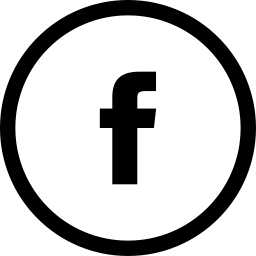
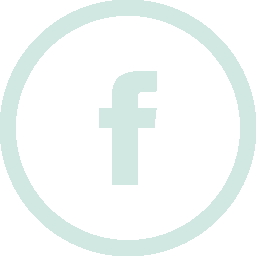
updated colors and hid feed when empty

Changed region(s): [[0.0, 0.0, 1.0, 1.0], [0.375, 0.25, 0.625, 0.75]]

diff --git a/public/index.html b/public/index.html
@@ -11,12 +11,12 @@
     <link rel="stylesheet" href="styles.css">
 </head>
 
-<body>
+<body id="page-top">
     <nav id="nav-bar">
         <div id="messageBox" class="demoMessage">
             <span>Loading ...</span> <button id="hideBtn">X</button>
         </div>
-        <img class="sustain-logo" src="images/sustain-logo.png" alt="Sustain logo">
+        <a href="#page-top"><img class="sustain-logo" src="images/sustain-logo.png" alt="Sustain logo"></a>
 
         <div class="navLinks" id="nav-links">
             <a class="link" id="js-activities">ADD CATEGORY</a>
@@ -130,6 +130,7 @@
         <!--Personal feed -->
         <section class="indivFeed">
             <h2 class="pageTitle">YOUR FEED</h2>
+            <p>Tell us about your experiences above to start earning points</p>
             <div class="currentFeed">
                 <img class="proofPicture" src="images/water-bottle.png" alt="water bottle">
 
@@ -165,7 +166,7 @@
 
     <!--ACTIVITIES Category PAGE -->
     <main id="activities-page" class="wrapper">
-        <section class="activitiesSection">
+        <section class="activitiesSection active">
             <h2 class="pageTitle">ACTIVITY CATEGORIES</h2>
             <p class="categoryPageDescription">Select activities to start earning points. </p>
             <select name="Categories" class="sustainCategories" id="categories">
@@ -188,7 +189,9 @@
             </select>
             <button class="pullDownCategories" role="button" type="search">Search</button>
         </section>
+
         <hr>
+
         <section class="activityBoxesSection">
             <!--
 <div class="activityBoxes">
@@ -226,6 +229,7 @@
     </main>
 
     <!--OVERALL FEED PAGE -->
+    <!--
     <main id="feed-page" class="wrapper">
         <section class="overallFeed">
             <h2 class="pageTitle">FEED</h2>
@@ -257,8 +261,10 @@
         </section>
         <div class="push"></div>
     </main>
+-->
 
     <!--FRIENDS PAGE -->
+    <!--
     <main id="friends-page" class="wrapper">
         <section class="friendsSection">
             <h2 class="pageTitle">FRIENDS</h2>
@@ -373,9 +379,10 @@
         </section>
         <div class="push"></div>
     </main>
+-->
     <footer>
         <div class="footerInfo">
-            <h1>Sustain</h1>
+            <a href="#page-top"><img class="footer-sustain-logo" src="images/sustain-logo.png" alt="Sustain logo"></a>
         </div>
         <div class="socialButtons">
             <a href="http://www.facebook.com" class="link"><img class="facebook" src="images/facebook.png" alt="facebook"></a>

diff --git a/public/styles.css b/public/styles.css
@@ -84,8 +84,9 @@ h1 {
 */
 
 img.sustain-logo {
-    width: 15%;
+    width: 13%;
     display: inline-block;
+    margin-left: 110px;
 }
 
 div.navLinks {
@@ -123,6 +124,7 @@ img.profilePic {
 #js-signout-link {
     margin-right: 20px;
 }
+
 
 /*SIGNIN PAGE*/
 
@@ -256,7 +258,7 @@ img.profile-picture {
     margin-top: 30px;
     width: 70px;
     border-radius: 50%;
-    border: 3px solid #ffcb9a;
+    border: 3px solid #d9b08c;
 
 }
 
@@ -299,8 +301,8 @@ section.activityDetailsBoxesSection {
     margin-bottom: 30px;
     text-align: center;
     border: 3px solid #d9b08c;
-    padding: 20px;
-
+    background-color: #d9b08c;
+    padding: 20px 80px;
 }
 
 section.activityBoxesSection div,
@@ -381,13 +383,19 @@ button.completedActivityButton {
 section.indivFeed {
     border: 3px solid #2c3531;
     padding: 20px;
+    background-color: #2c3531;
 }
 
 div.currentFeed {
-    border: 3px dashed #116466;
+    border: 3px dashed #d1e8e2;
     margin: 15px auto;
     width: 80%;
     padding: 10px 0;
+    background-color: white;
+}
+
+h2.pageTitle {
+    color: #d1e8e2;
 }
 
 div.pointsEarned {
@@ -410,7 +418,7 @@ img.proofPicture {
     display: inline-block;
     vertical-align: middle;
     border-radius: 100%;
-    border: 5px dotted #C1E1A6;
+    border: 5px dashed #116466;
 }
 
 
@@ -542,9 +550,17 @@ img.friendImages {
 
 /*Footer*/
 
+img.footer-sustain-logo {
+    width: 20%;
+    display: inline-block;
+    margin-left: 110px;
+    padding-top: 10px;
+}
+
 footer {
     background-color: #2c3531;
     color: #d1e8e2;
+    display: inline-block;
 }
 
 footer,
@@ -559,10 +575,11 @@ div.footerInfo {
 }
 
 div.socialButtons {
+    padding: 10px 10px;
     width: 60%;
     display: inline-block;
     float: right;
-    margin: 20px 20px 0 0;
+    /*    margin: 20px 20px 0 0;*/
 }
 
 img.facebook,

diff --git a/public/profileActivity.js b/public/profileActivity.js
@@ -118,6 +118,7 @@ $(document).on('click', '.completedActivityButton', function (event) {
 
 function getActivitiesFeedByUsername(username) {
 
+
     $.ajax({
             type: 'GET',
             url: '/activity-feed-by-username/' + username,
@@ -154,4 +155,11 @@ function displayActivitiesFeedByUsername(activityFeed) {
     });
     $('#total-points').text(totalPoints);
     $('.indivFeed').html(buildActivity);
+    hideFeed();
 }
+
+function hideFeed() {
+    if ($('.currentFeed').length < 1) {
+        $('.indivFeed').hide();
+    } else($('.indivFeed').show())
+};

diff --git a/public/client.js b/public/client.js
@@ -275,6 +275,8 @@ $(document).ready(function () {
         showSignInPage();
     })
 
+
+
     $('#friends-page').hide();
     $('.addedCategoryCard').hide();
     $('#feed-page').hide();
